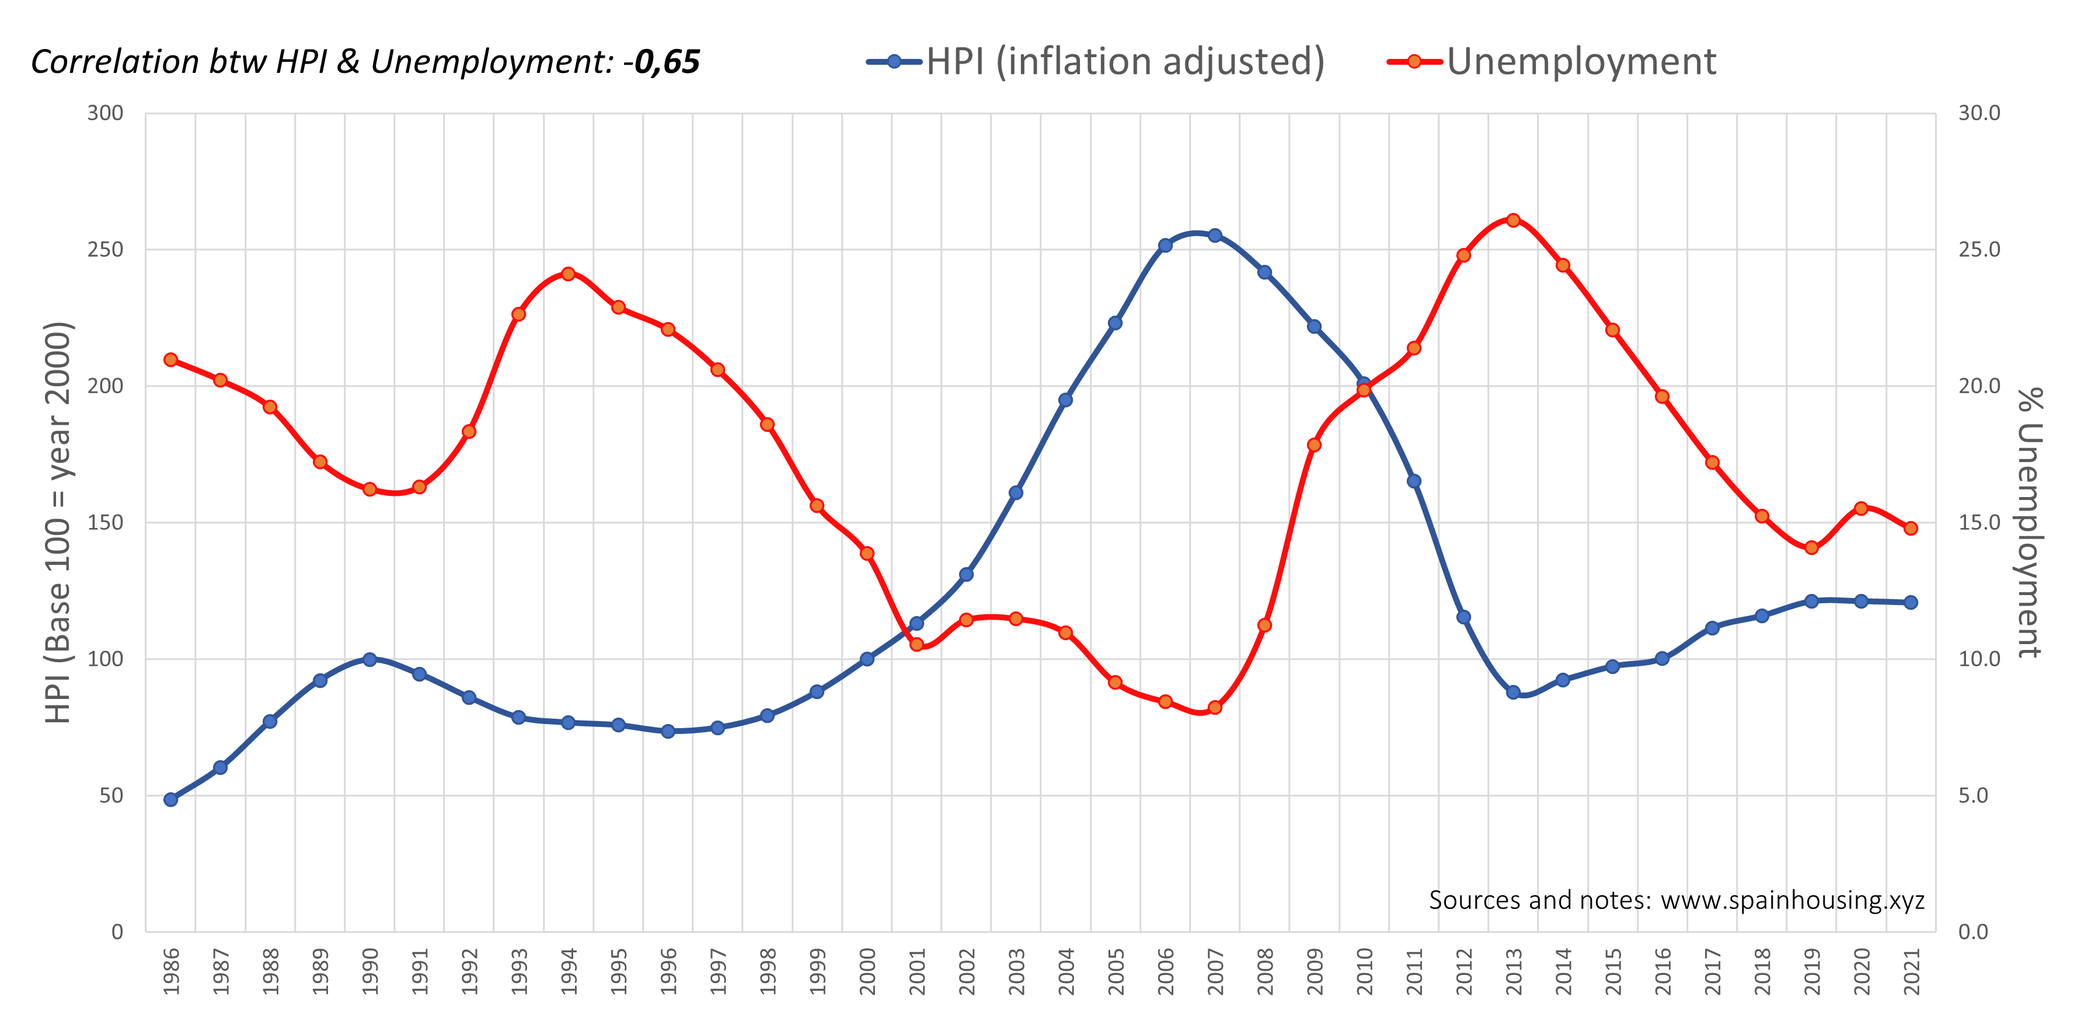
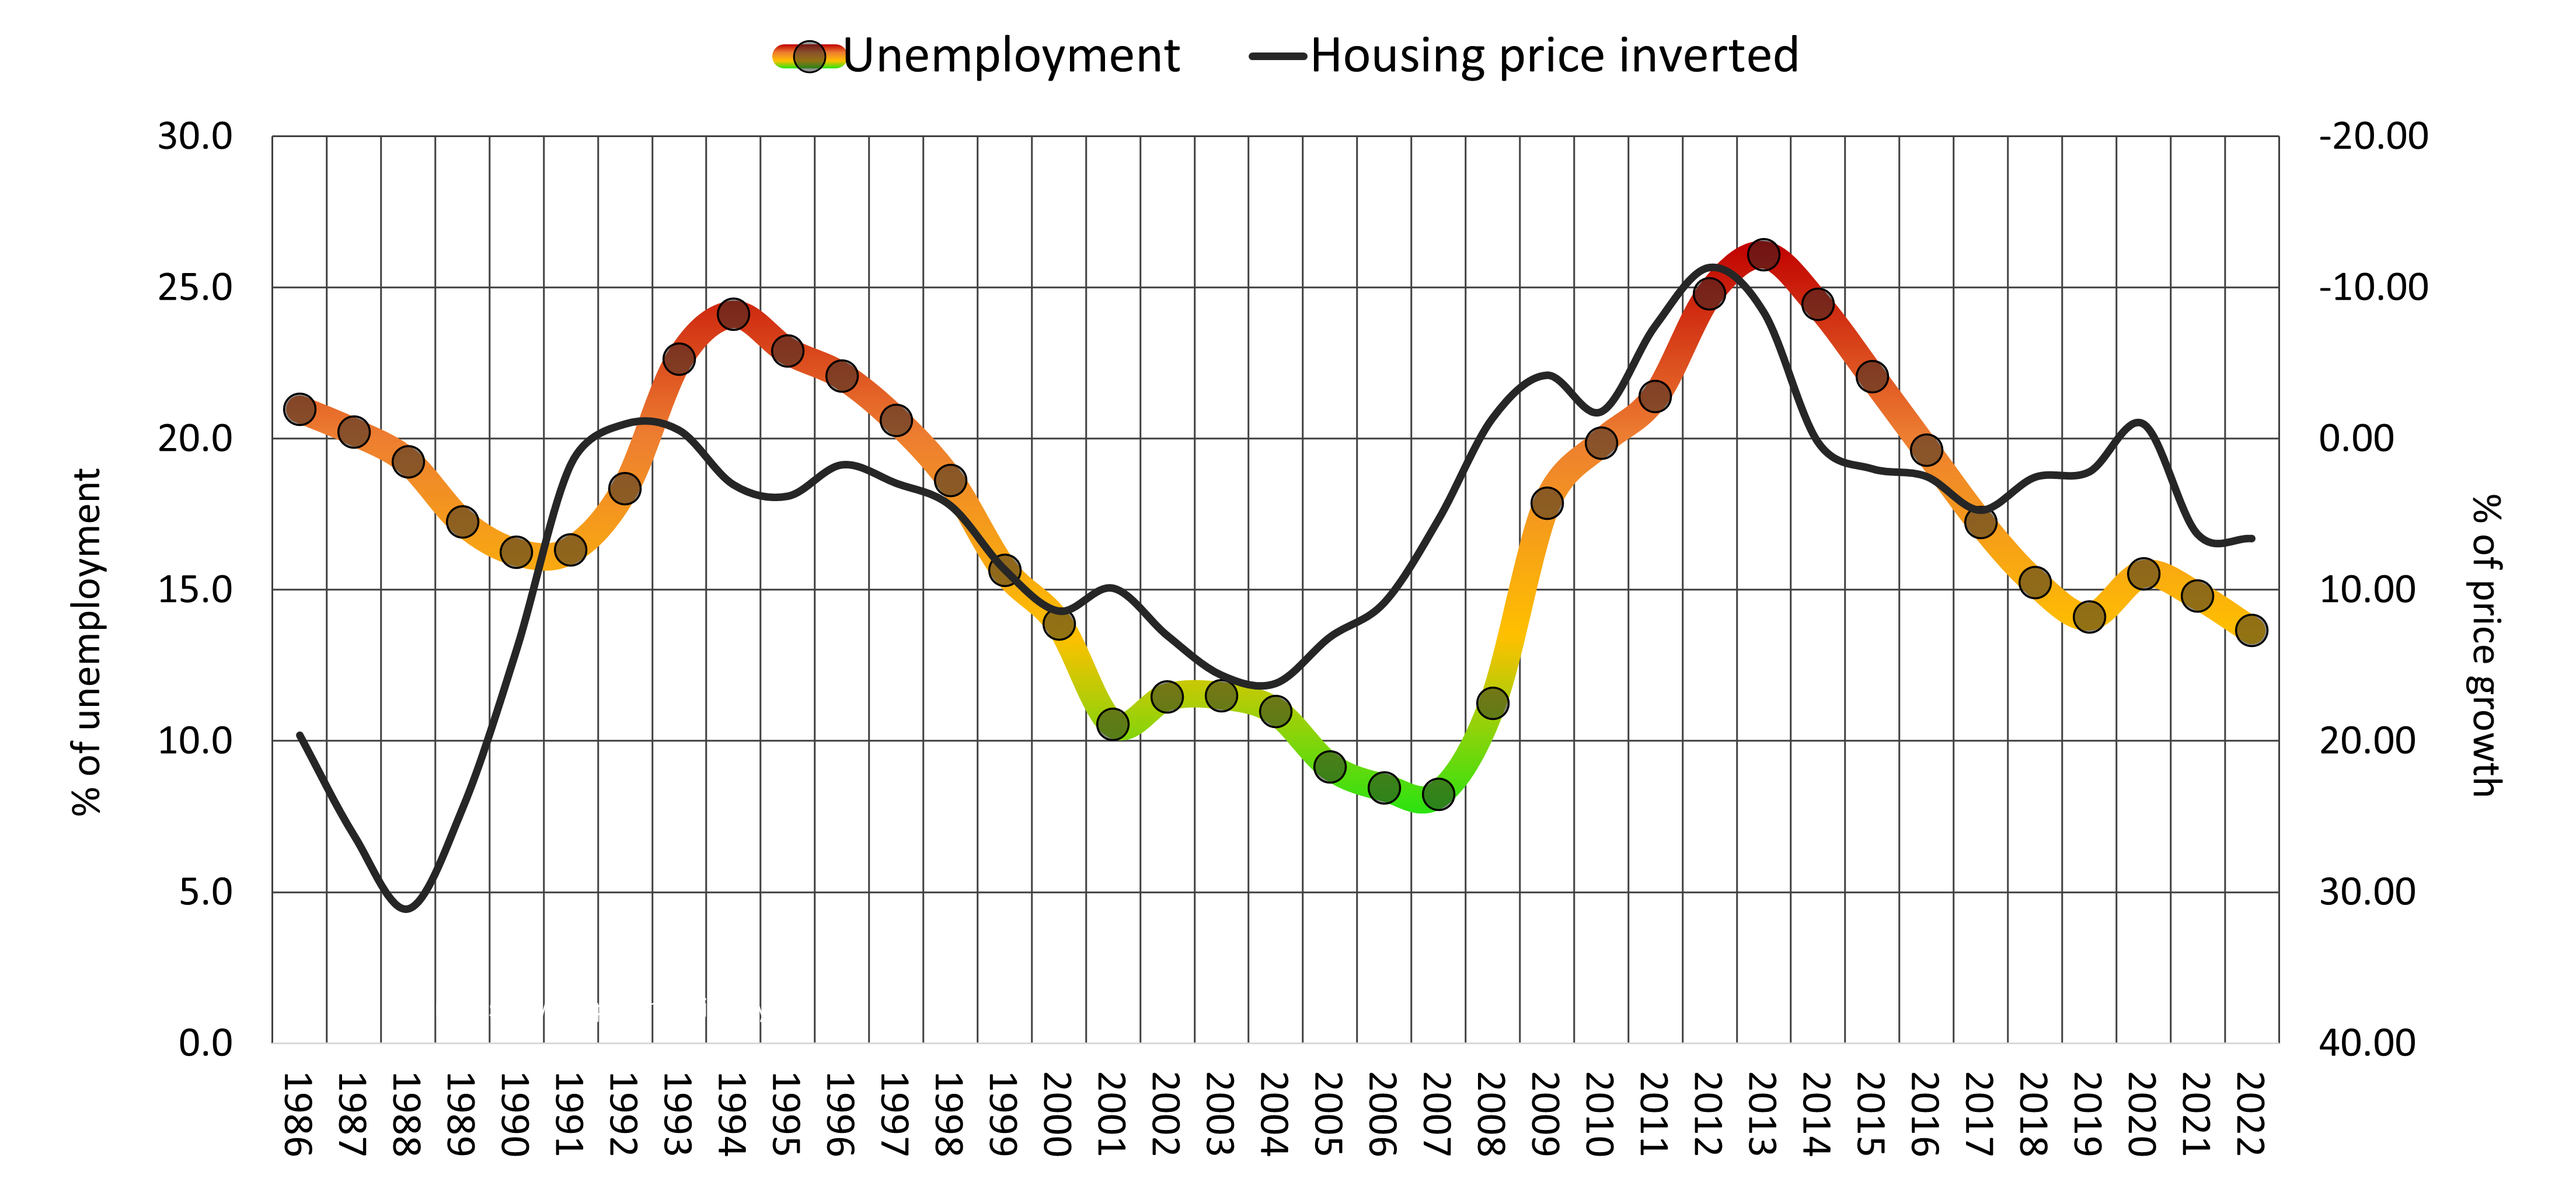
upload

diff --git a/pages/posts/labor.md b/pages/posts/labor.md
@@ -12,8 +12,8 @@ import Image from 'next/image'
 
 [![Paro y precio de la vivienda](/images/ocupacio.png)](/images/ocupacio.png)
 
-- **Left axis**: HPI (Housing Price Index) inflation adjusted (base 100 = 2000).
-- **Right axis**: average unemployment rate for each year.
+- **Left axis**: average unemployment rate for each year.
+- **Right axis**: average price growth of housing prices.
 
 [![Paro y precio de la viviendas](/images/ocupacio2.png)](/images/ocupacio2.png)
 
